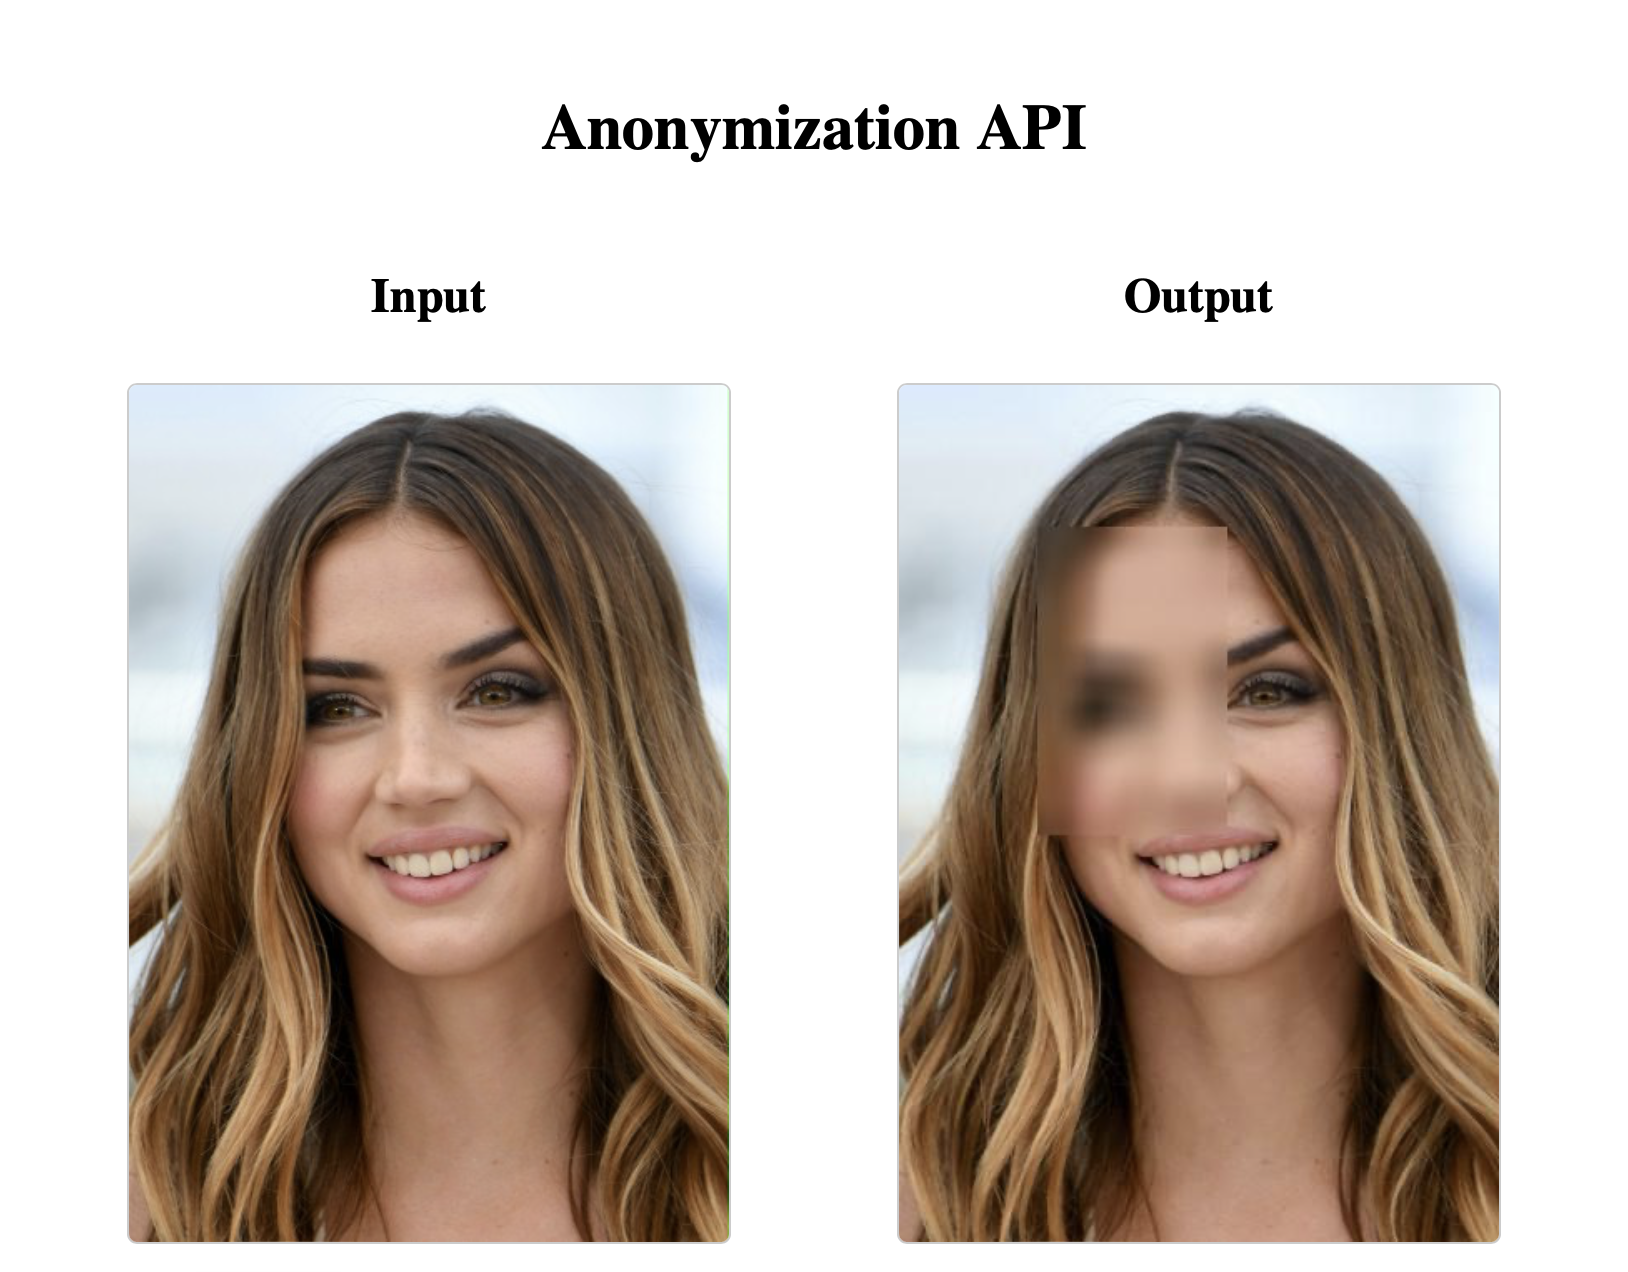
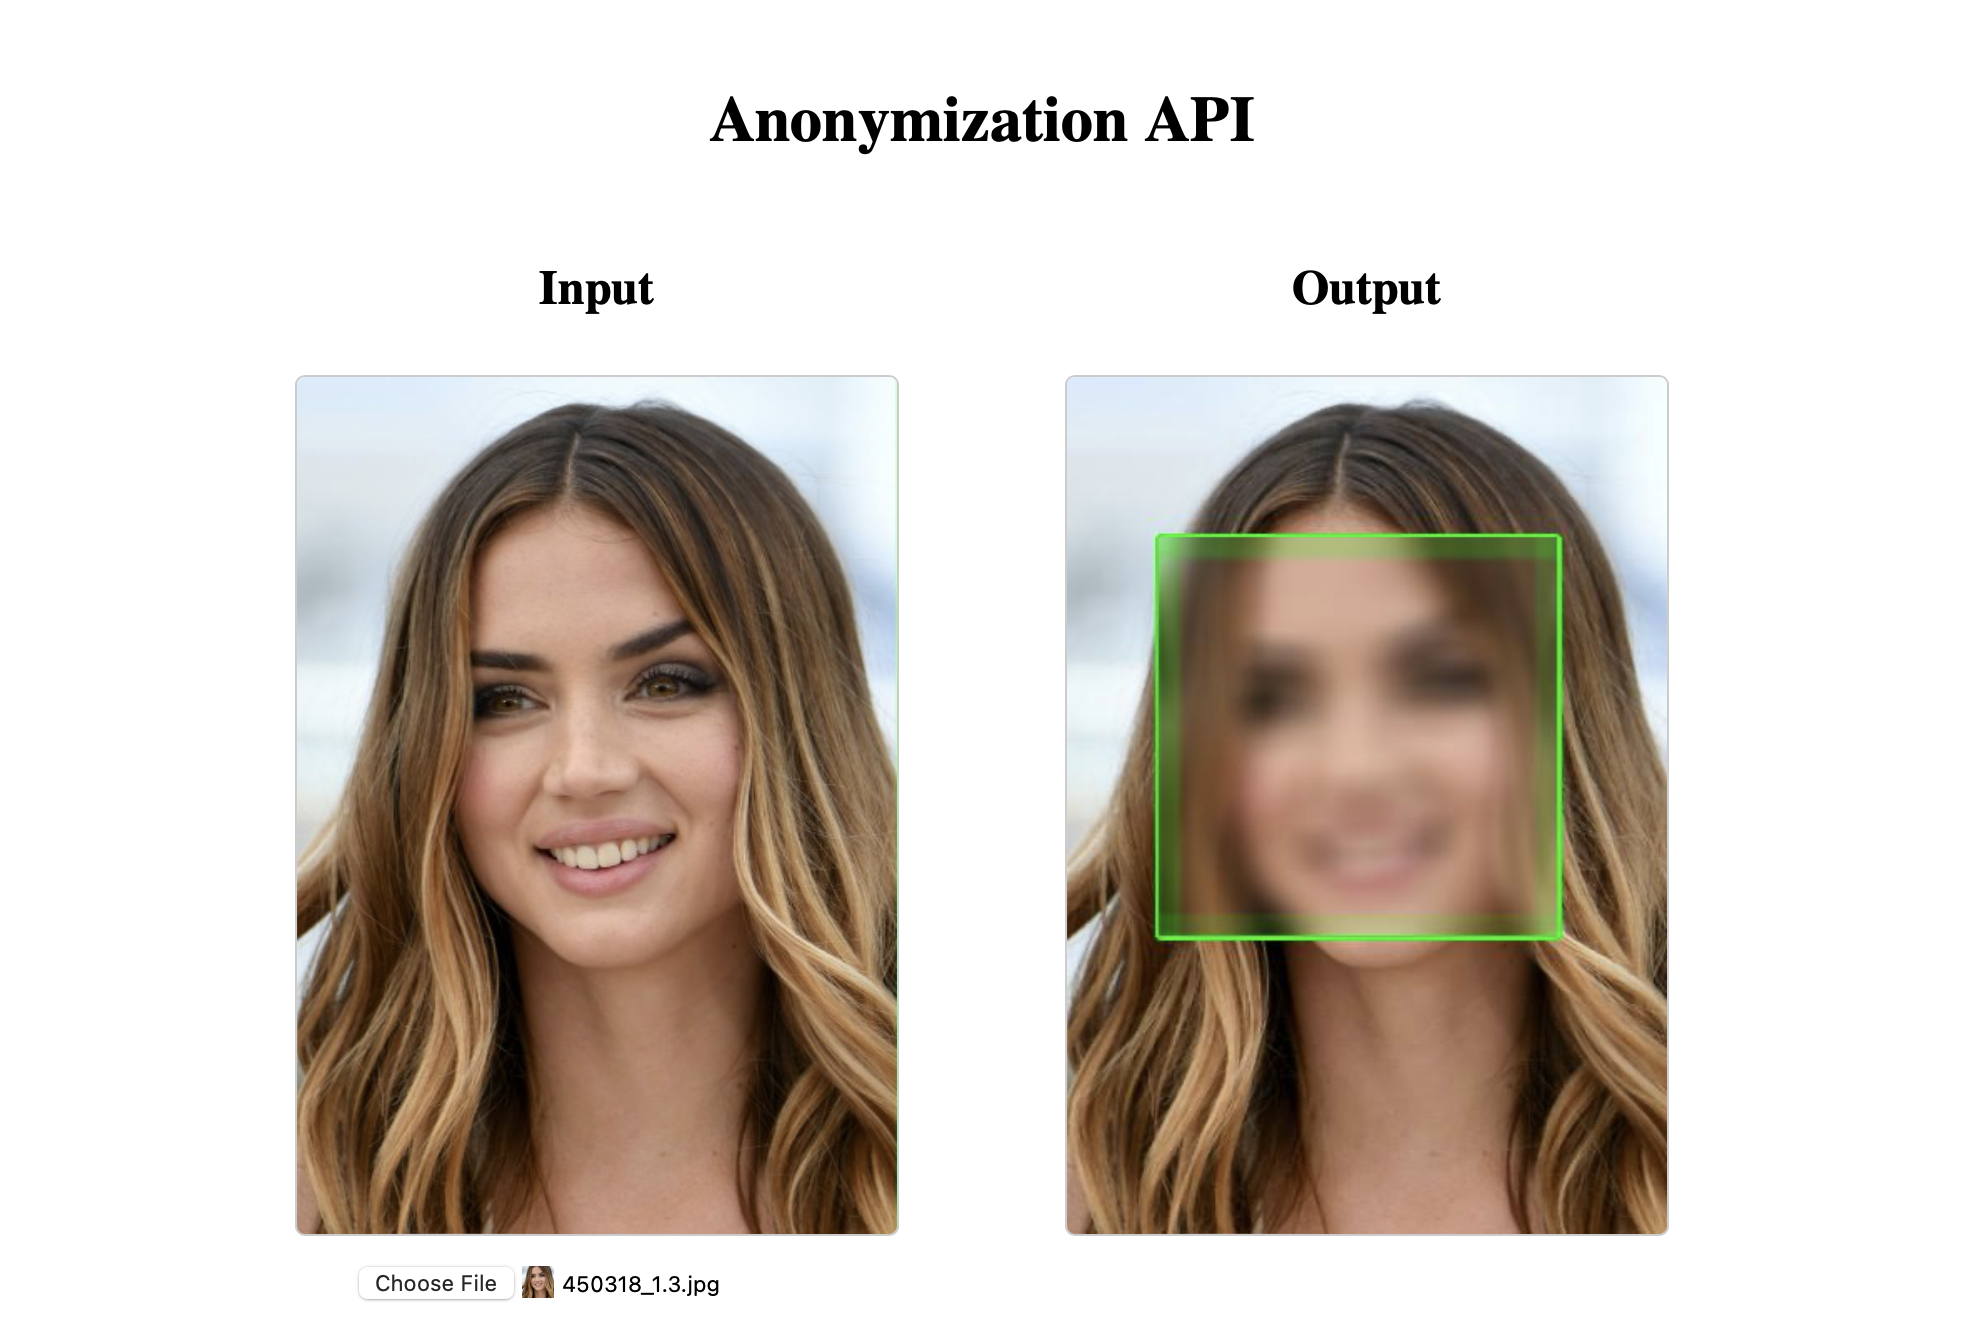
ocv updated

diff --git a/api/views.py b/api/views.py
@@ -8,9 +8,7 @@ from django.core.files.base import ContentFile
 import io
 from PIL import Image as PILImage
 import cv2 as cv
-import numpy as np
-import time
-from .yunet import YuNet
+from .ocv import ImageProcessor 
 
 class ImageViewSet(viewsets.ModelViewSet):
     queryset = Image.objects.all()
@@ -42,28 +40,10 @@ class ImageViewSet(viewsets.ModelViewSet):
         }, status=status.HTTP_201_CREATED)
 
     def process(self, imagePath):
-        image = cv.imread(imagePath)
-        height, width, channels = image.shape
-        
-        model = YuNet(
-            modelPath='data/face_detection_yunet_2023mar.onnx',
-            inputSize=[width, height],
-            confThreshold=0.9,
-            nmsThreshold=0.3,
-            topK=5000,
-            backendId=3,
-            targetId=0)
-        
-        results = model.infer(image)
-        
-        for face in results:
-            x1, y1, x2, y2 = map(int, face[0:4]) # seems like it returns more faces for now. therefore 0:4
-            face_region = image[y1:y2, x1:x2]
-            blurred_face = cv.GaussianBlur(face_region, (25, 25), 30)
-            image[y1:y2, x1:x2] = blurred_face
+        image = ImageProcessor(imagePath)
+        image = image.process()
 
         # convert to rgb for pil
-        image_rgb = cv.cvtColor(image, cv.COLOR_BGR2RGB)
-        pil_image = PILImage.fromarray(image_rgb)
+        pil_image = PILImage.fromarray(image)
 
         return pil_image

diff --git a/api/ocv.py b/api/ocv.py
@@ -1,0 +1,28 @@
+import cv2 as cv
+import cv2.data as data
+
+class ImageProcessor:
+    def __init__(self, image_path, border = True):
+        self.image = cv.imread(image_path)
+        self.border = border
+        self.height, self.width, self.channels = self.image.shape
+
+    def process(self):
+        grayscale = cv.cvtColor(self.image, cv.COLOR_BGR2GRAY)
+        
+        face_classifier = cv.CascadeClassifier(
+            data.haarcascades + "haarcascade_frontalface_default.xml"
+        )
+
+        face = face_classifier.detectMultiScale(
+            grayscale, scaleFactor=1.1, minNeighbors=5, minSize=(40, 40)
+        )
+
+        for (x, y, w, h) in face:
+            if self.border:
+                cv.rectangle(self.image, (x, y), (x + w, y + h), (0, 255, 0), 4)
+            face_region = self.image[y:y+h, x:x+w]
+            blurred_face = cv.GaussianBlur(face_region, (25, 25), 40)
+            self.image[y:y+h, x:x+w] = blurred_face
+        
+        return cv.cvtColor(self.image, cv.COLOR_BGR2RGB)
